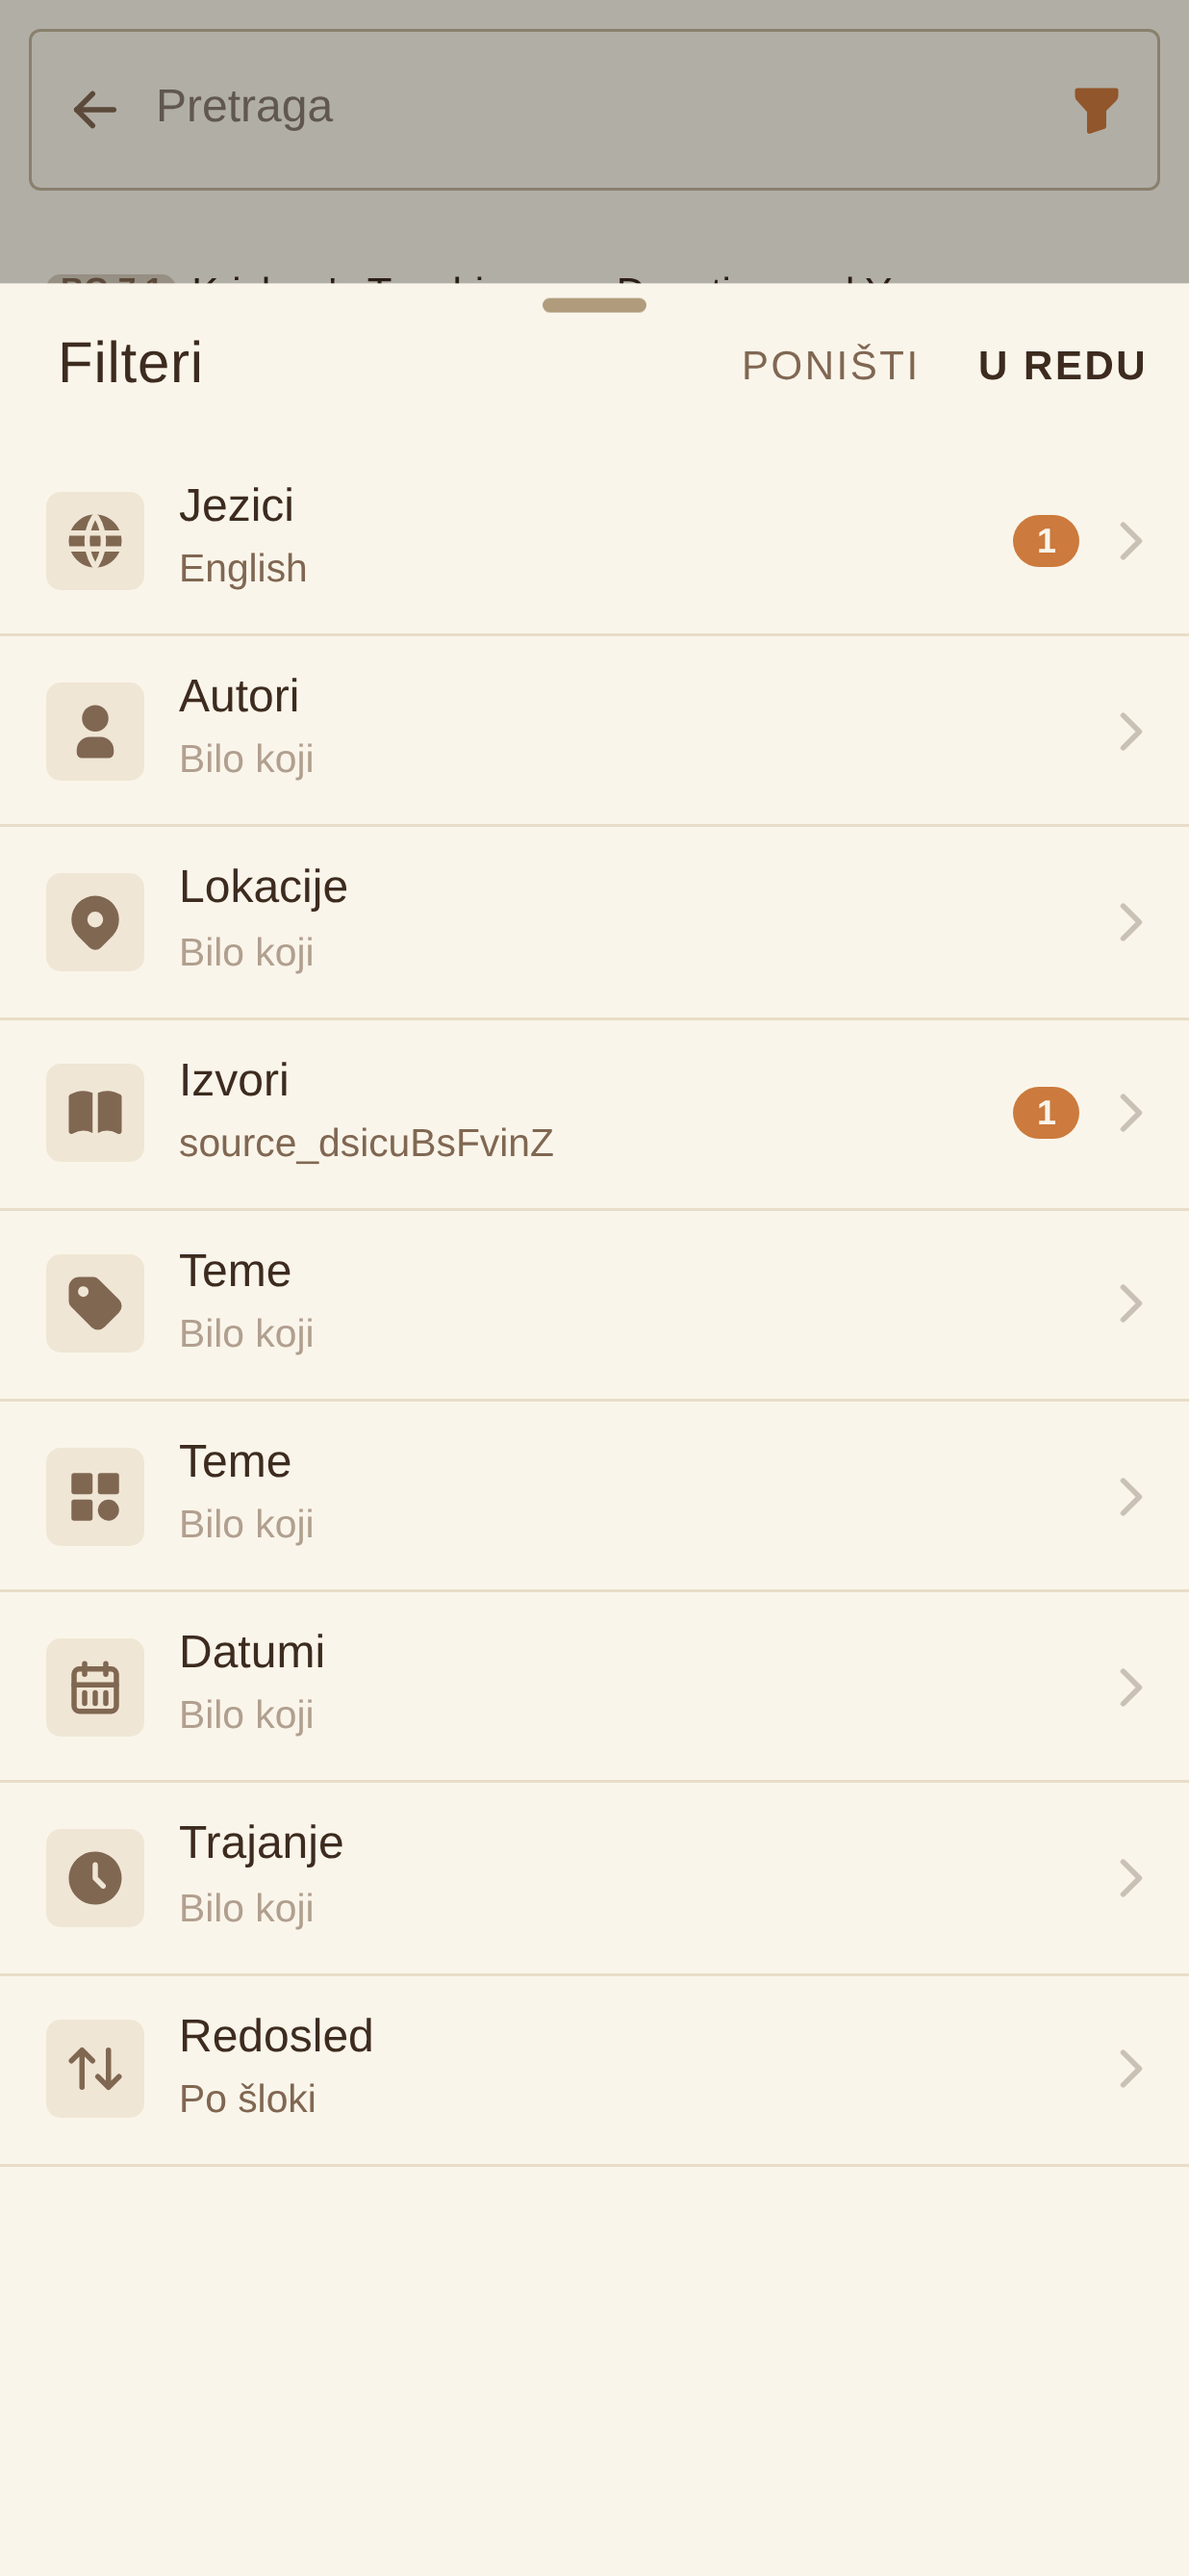
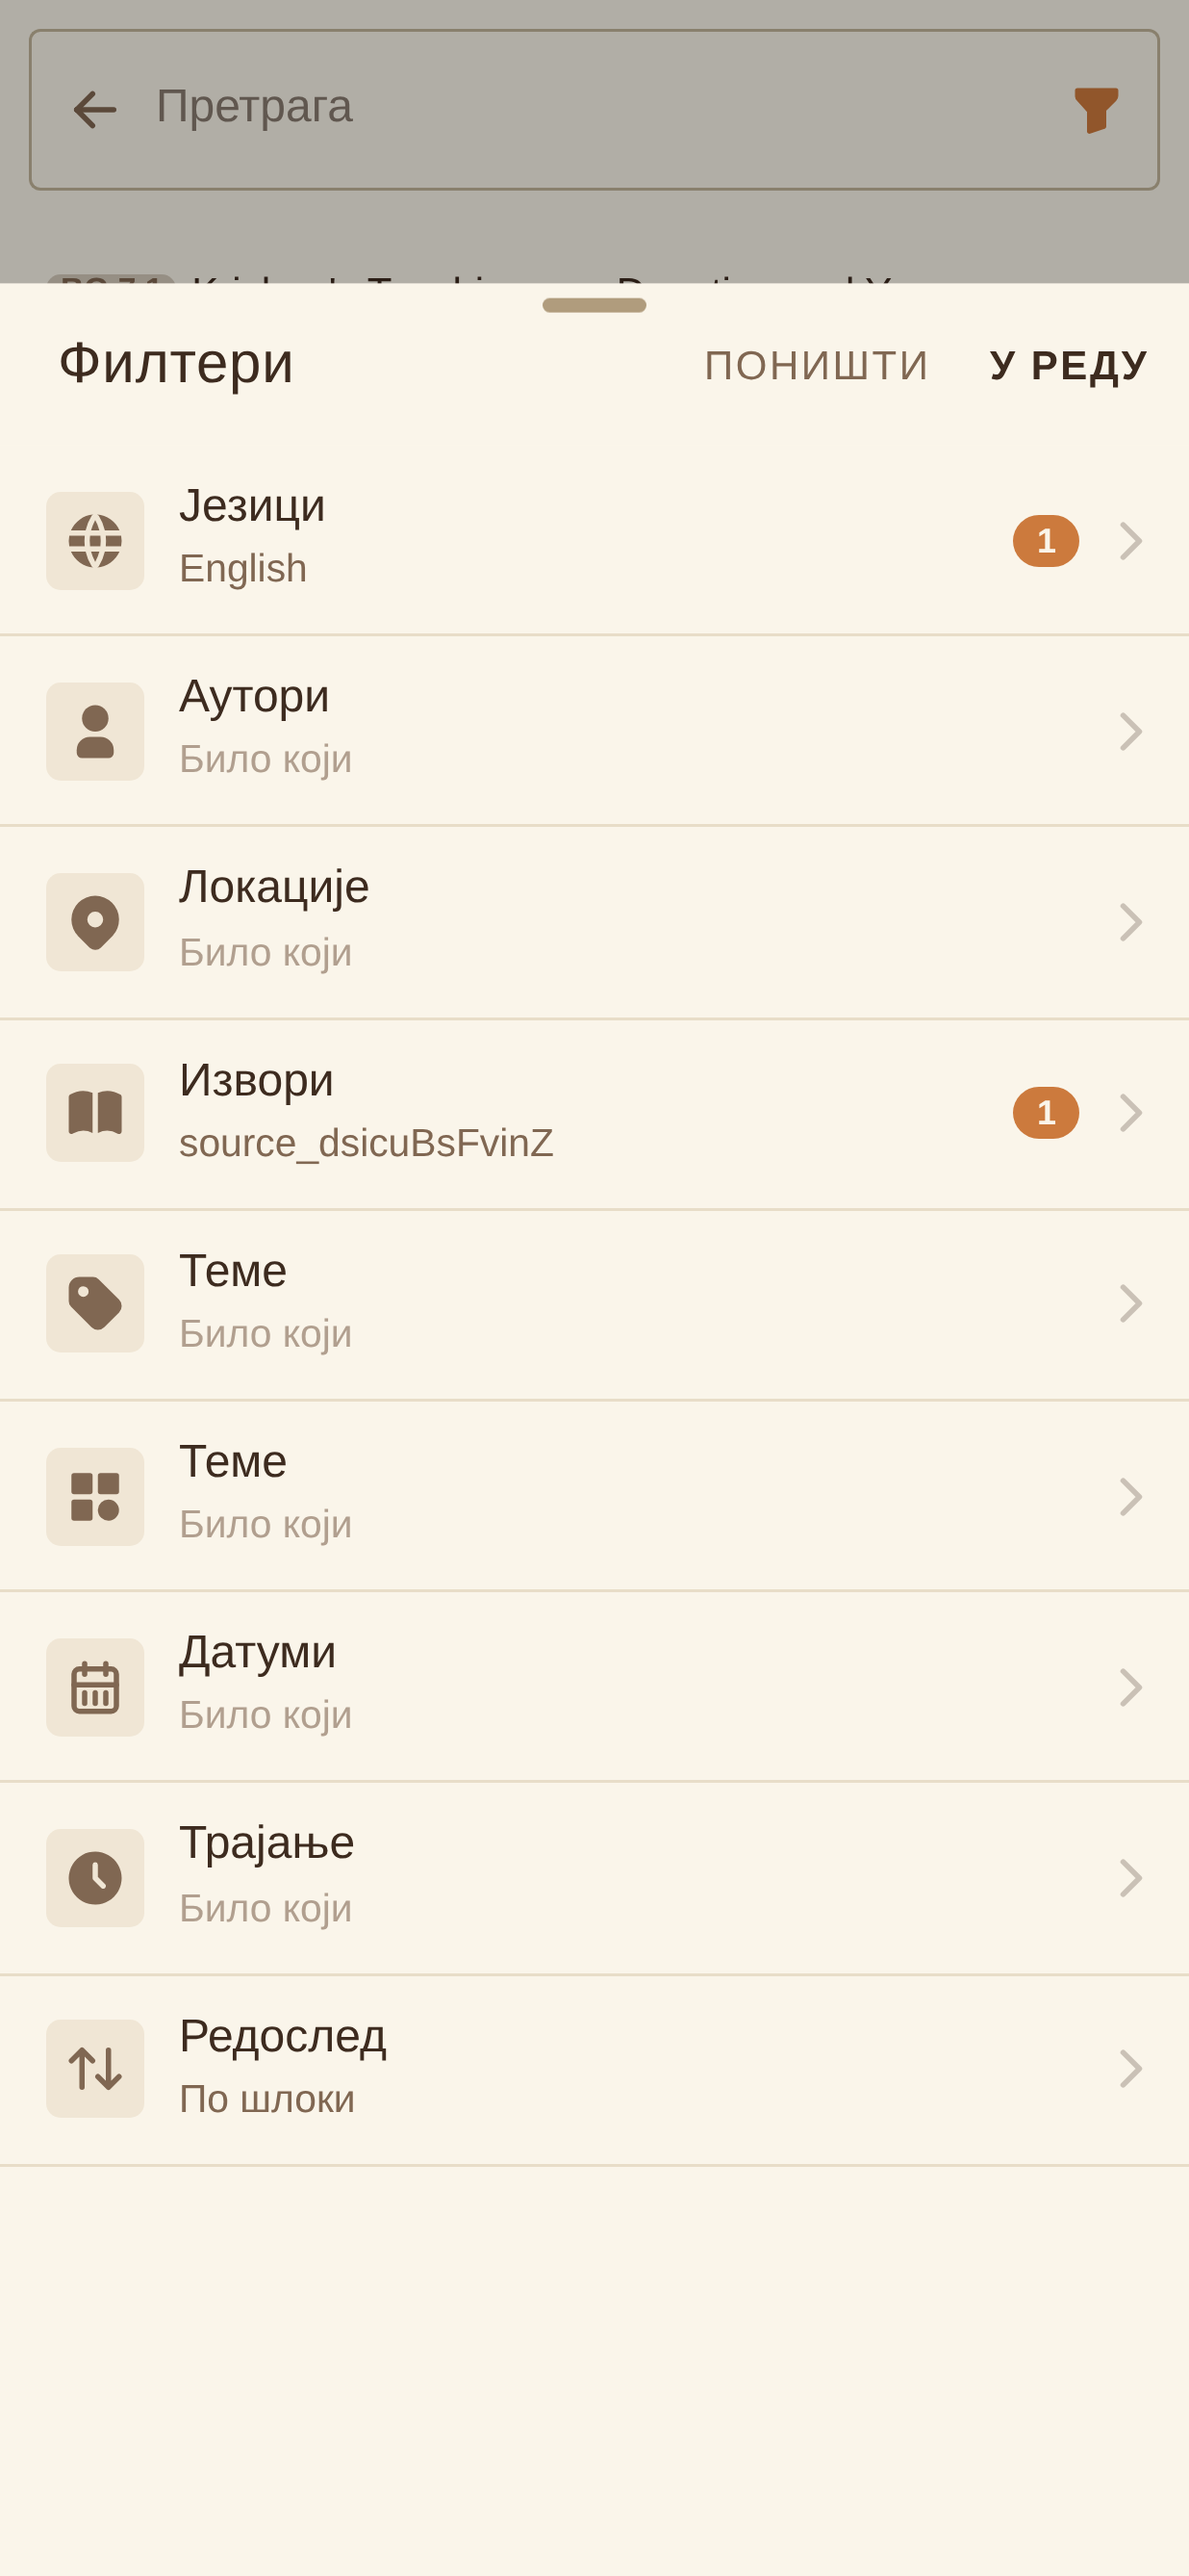
fix(screenshots): pin UI language so sr-Cyrl captures render Cyrillic
The capture booted with `?locale=<code>`, but Welcome redirects to
/tabs/home and drops the query string before `useAppLanguageSeed` runs.
The seed then re-derived the language from navigator.language, and Chromium
normalises the invalid standalone `sr-Cyrl` context locale to a bare `sr`,
which toSupportedLocale maps to `sr-Latn` — so every Cyrillic screenshot
came out in Latin chrome (only the seeded chat content was Cyrillic). en/ru/
sr-Latn are valid BCP-47 tags and were unaffected, which is why it slipped.

Preseed `settings.appLanguage` (the same Capacitor Preferences key the app
persists) so the seed no-ops and the UI language is pinned to the captured
locale deterministically. Regenerate the 8 web sr-cyrl screenshots that
carried localized chrome; 04_transcript is pure English content so it is
unchanged.

diff --git a/modules/tools/screenshots/specs/capture.spec.ts b/modules/tools/screenshots/specs/capture.spec.ts
@@ -216,6 +216,30 @@ async function preseedOnboarding(page: Page): Promise<void> {
 }
 
 /**
+ * Pin the UI language to the captured locale. The app reads `?locale=` only
+ * for the synchronous i18n default, then `useAppLanguageSeed` re-derives the
+ * language from `navigator.language` once the Welcome redirect to `/tabs/home`
+ * has dropped the query string. Chromium normalises the invalid standalone
+ * `sr-Cyrl` context locale to a bare `sr`, which `toSupportedLocale` maps to
+ * `sr-Latn` — so without this the Cyrillic capture renders Latin chrome. The
+ * seed no-ops when `settings.appLanguage` is already set (web →
+ * `localStorage["CapacitorStorage.settings.appLanguage"]`, JSON-encoded by
+ * `useConfig`), so stamping it makes every locale deterministic.
+ */
+async function preseedAppLanguage(page: Page, code: CaptureLocale): Promise<void> {
+  await page.addInitScript(
+    ({ value }: { value: string }) => {
+      try {
+        localStorage.setItem("CapacitorStorage.settings.appLanguage", value)
+      } catch {
+        // unavailable origin — non-fatal; the app falls back to its detected locale.
+      }
+    },
+    { value: JSON.stringify(code) }
+  )
+}
+
+/**
  * Write the seeded user.db into IndexedDB BEFORE the app boots. The Vite
  * `useSqlJsPersistence` reads from `(lectorium, databases, user.db)` on
  * `open()` and creates an empty DB only when the key is missing — so a
@@ -270,6 +294,7 @@ async function boot(page: Page, code: CaptureLocale): Promise<void> {
   await preseedSearchFilter(page, code)
   await preseedDismissedNags(page)
   await preseedOnboarding(page)
+  await preseedAppLanguage(page, code)
 
   await page.goto(`/?locale=${code}`)
   await page.waitForURL("**/tabs/home", { timeout: 60_000 })
